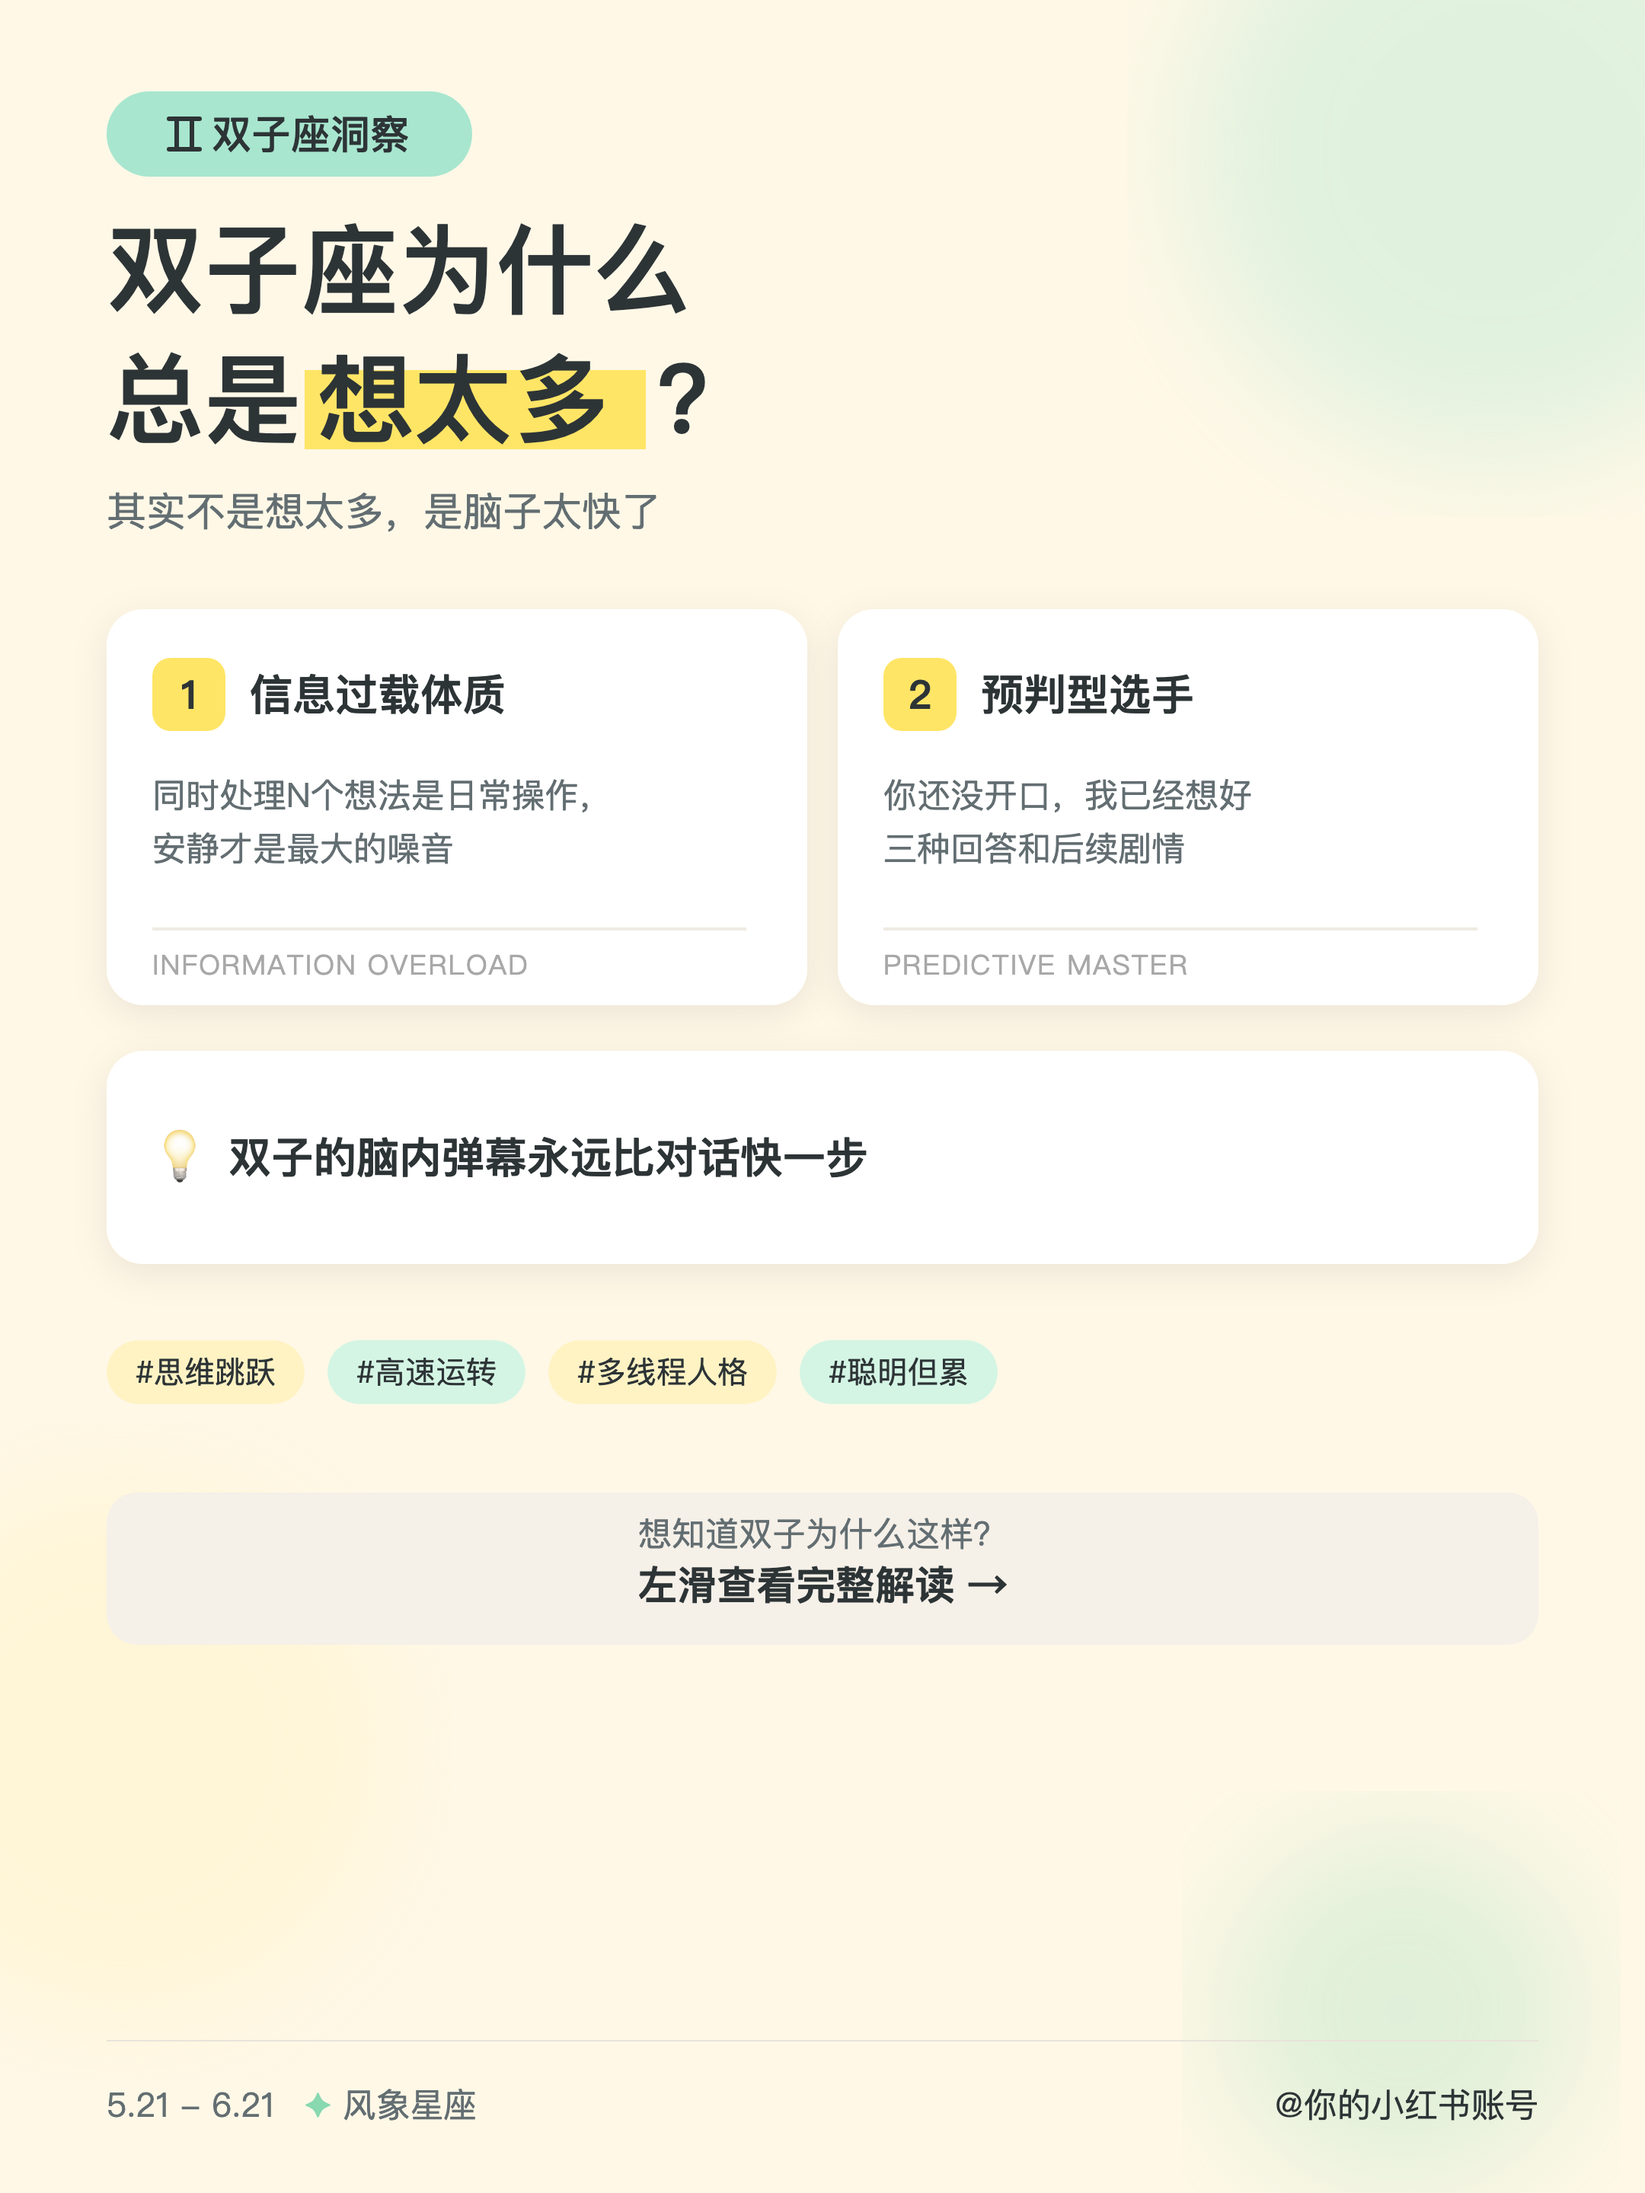
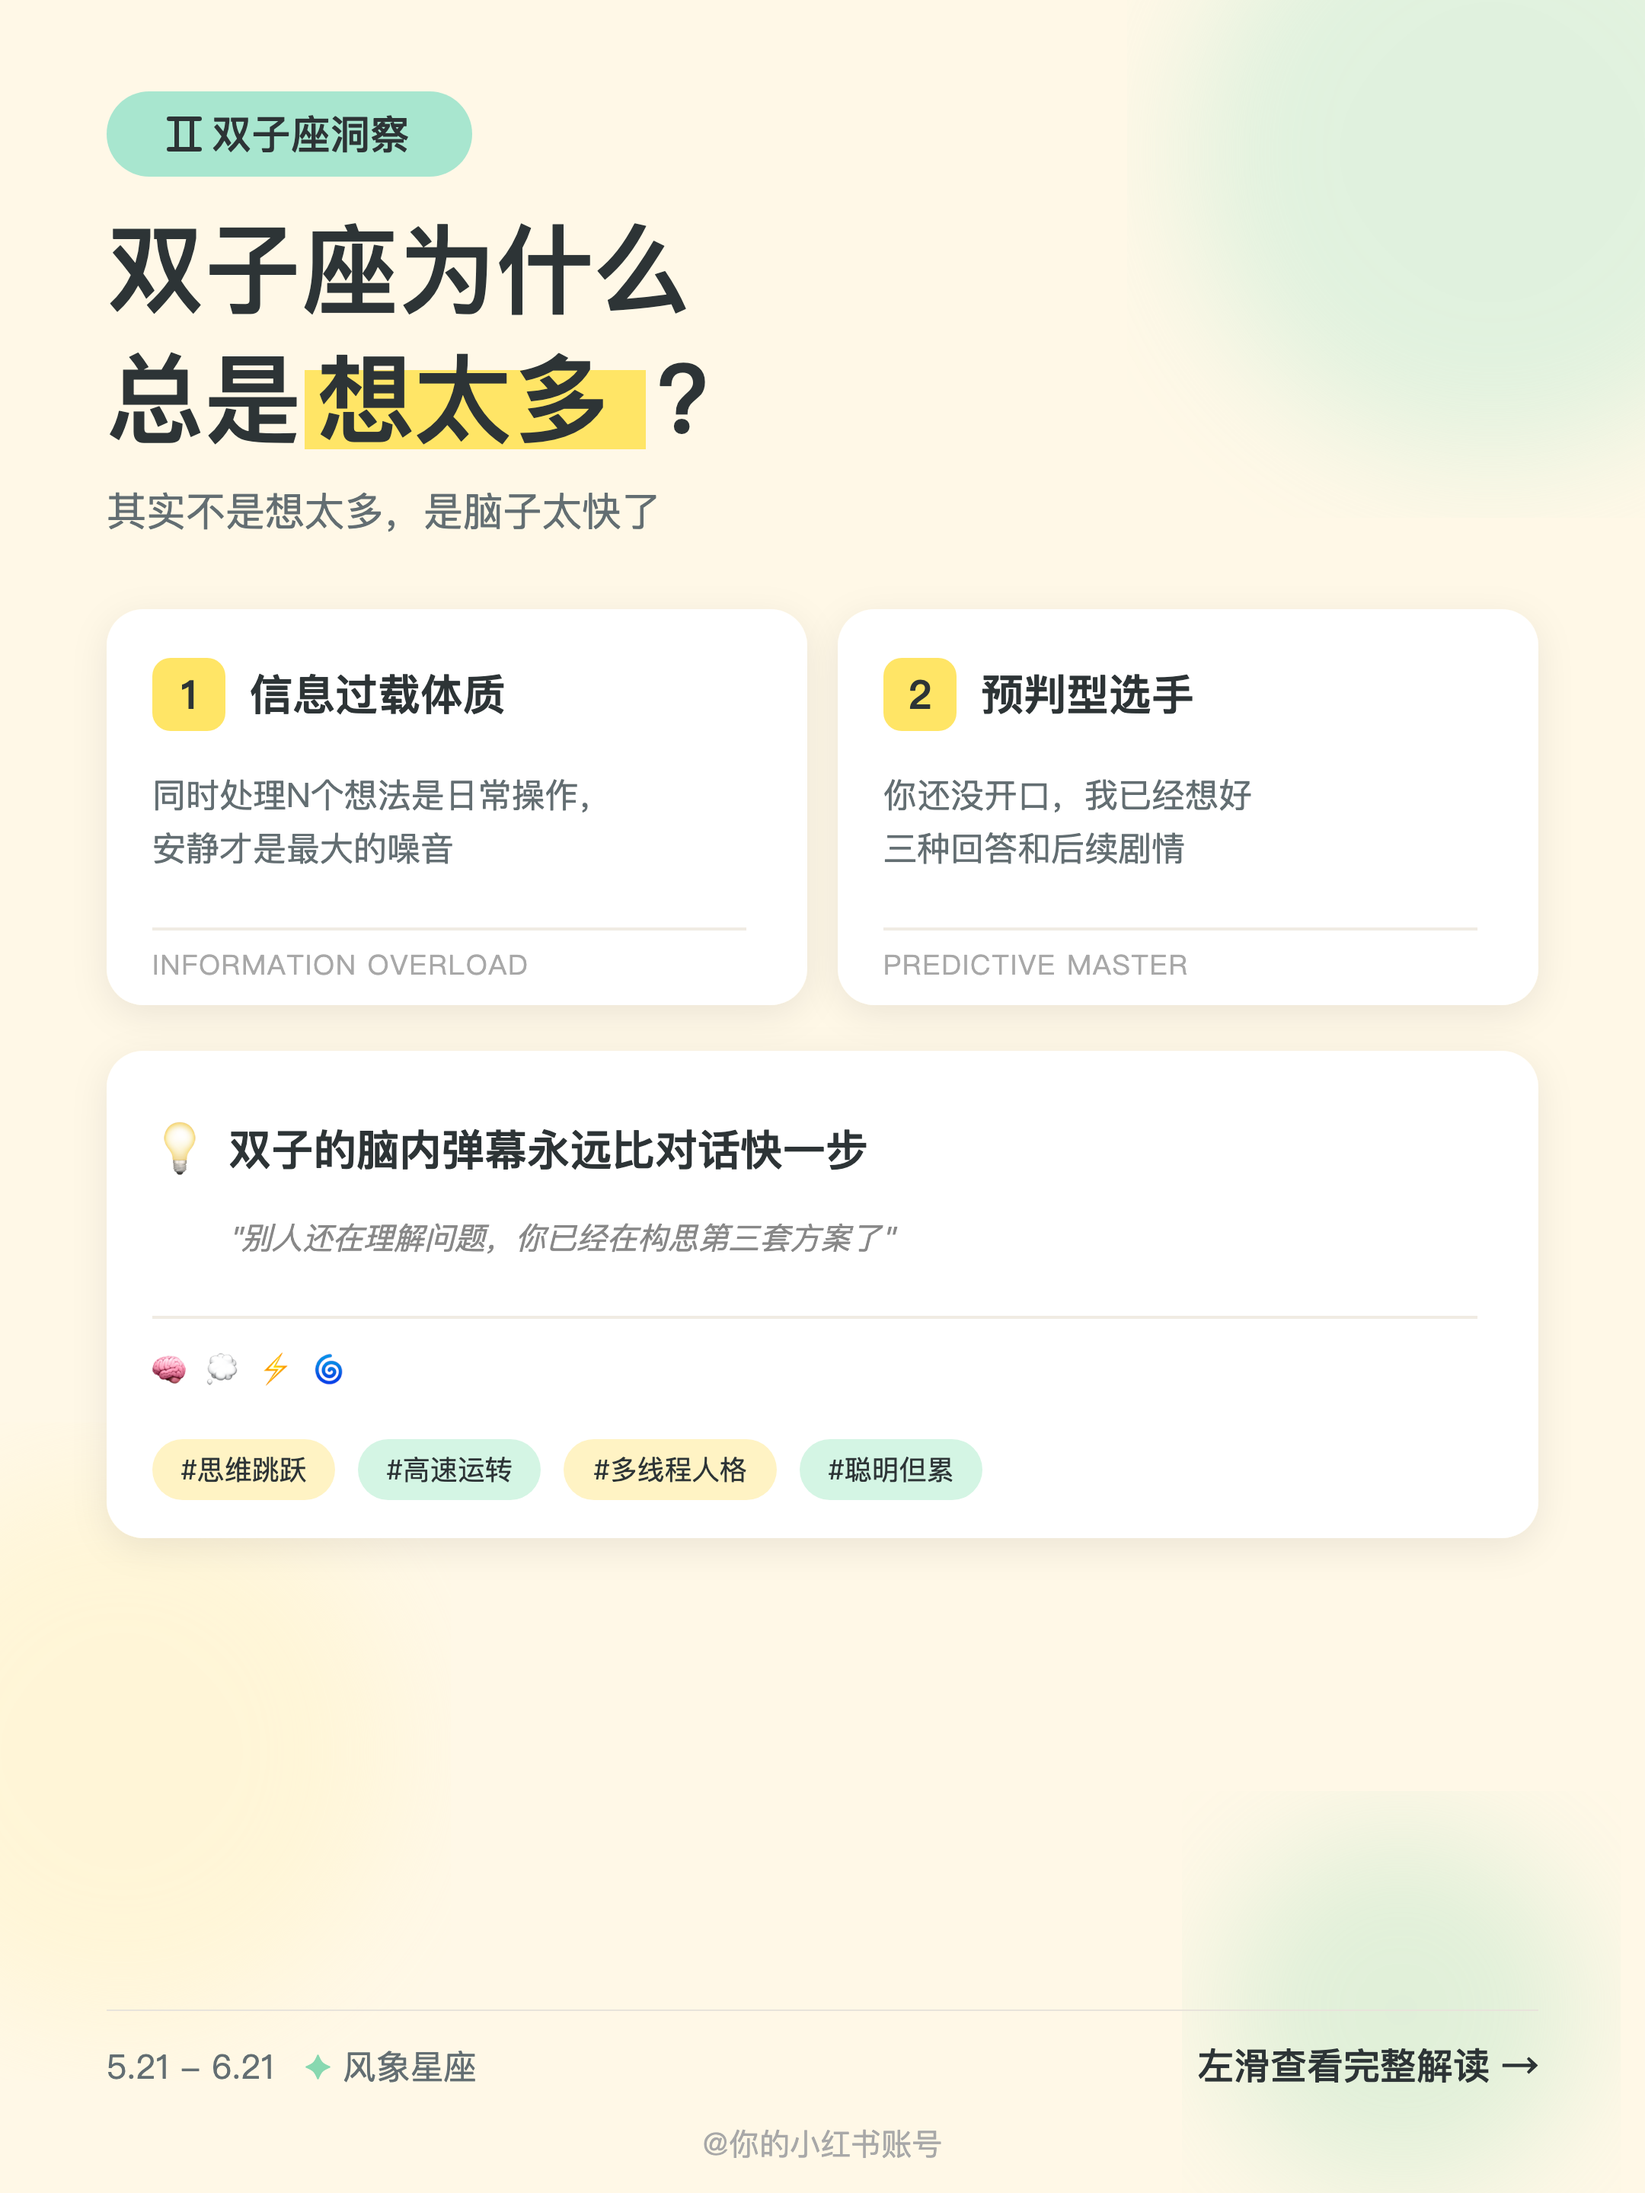
请依照你的高端审美结合我提出的问题（不限于）重新优化整个封面
🤖 Auto-backup by Claude Code

diff --git a/skills/zodiac-poster/assets/templates/fresh-insight/examples/01_cover.html b/skills/zodiac-poster/assets/templates/fresh-insight/examples/01_cover.html
@@ -36,9 +36,7 @@
   <!-- ==================== 头部徽章 ==================== -->
   <rect x="70" y="60" width="240" height="56" rx="28" fill="#A8E6CF"/>
   <g transform="translate(190, 88)">
-    <!-- 内容整体居中：图标20px + 间距8px + 文字130px = 158px -->
     <g transform="translate(-79, 0)">
-      <!-- 双子座图标 (20x20) -->
       <g transform="translate(0, -10)">
         <line x1="0" y1="0" x2="20" y2="0" stroke="#2D3436" stroke-width="3" stroke-linecap="round"/>
         <line x1="0" y1="20" x2="20" y2="20" stroke="#2D3436" stroke-width="3" stroke-linecap="round"/>
@@ -64,72 +62,75 @@
   <!-- ==================== 双卡片区 ==================== -->
   <!-- 卡片1 -->
   <rect x="70" y="400" width="460" height="260" rx="24" fill="#FFFFFF" filter="url(#cardShadow)"/>
-  <!-- 序号圆角方块 - 居中显示数字 -->
   <rect x="100" y="432" width="48" height="48" rx="12" fill="#FFE566"/>
   <text x="124" y="456" font-family="PingFang SC, Microsoft YaHei, sans-serif" font-size="26" font-weight="700" fill="#2D3436" text-anchor="middle" dominant-baseline="central">1</text>
-  <!-- 标题 -->
   <text x="164" y="456" font-family="PingFang SC, Microsoft YaHei, sans-serif" font-size="28" font-weight="700" fill="#2D3436" dominant-baseline="central">信息过载体质</text>
-  <!-- 描述文字 -->
   <text x="100" y="530" font-family="PingFang SC, Microsoft YaHei, sans-serif" font-size="22" fill="#636E72">同时处理N个想法是日常操作，</text>
   <text x="100" y="565" font-family="PingFang SC, Microsoft YaHei, sans-serif" font-size="22" fill="#636E72">安静才是最大的噪音</text>
-  <!-- 装饰线 -->
   <line x1="100" y1="610" x2="490" y2="610" stroke="#F0EBE3" stroke-width="2"/>
   <text x="100" y="640" font-family="PingFang SC, Microsoft YaHei, sans-serif" font-size="18" fill="#A8A8A8" letter-spacing="1">INFORMATION OVERLOAD</text>
 
   <!-- 卡片2 -->
   <rect x="550" y="400" width="460" height="260" rx="24" fill="#FFFFFF" filter="url(#cardShadow)"/>
-  <!-- 序号圆角方块 - 居中显示数字 -->
   <rect x="580" y="432" width="48" height="48" rx="12" fill="#FFE566"/>
   <text x="604" y="456" font-family="PingFang SC, Microsoft YaHei, sans-serif" font-size="26" font-weight="700" fill="#2D3436" text-anchor="middle" dominant-baseline="central">2</text>
-  <!-- 标题 -->
   <text x="644" y="456" font-family="PingFang SC, Microsoft YaHei, sans-serif" font-size="28" font-weight="700" fill="#2D3436" dominant-baseline="central">预判型选手</text>
-  <!-- 描述文字 -->
   <text x="580" y="530" font-family="PingFang SC, Microsoft YaHei, sans-serif" font-size="22" fill="#636E72">你还没开口，我已经想好</text>
   <text x="580" y="565" font-family="PingFang SC, Microsoft YaHei, sans-serif" font-size="22" fill="#636E72">三种回答和后续剧情</text>
-  <!-- 装饰线 -->
   <line x1="580" y1="610" x2="970" y2="610" stroke="#F0EBE3" stroke-width="2"/>
   <text x="580" y="640" font-family="PingFang SC, Microsoft YaHei, sans-serif" font-size="18" fill="#A8A8A8" letter-spacing="1">PREDICTIVE MASTER</text>
 
-  <!-- ==================== 全宽卡片 ==================== -->
-  <rect x="70" y="690" width="940" height="140" rx="24" fill="#FFFFFF" filter="url(#cardShadow)"/>
-  <!-- 灯泡图标和文字在同一行 -->
-  <g transform="translate(100, 760)">
+  <!-- ==================== 全宽卡片（包含标签） ==================== -->
+  <rect x="70" y="690" width="940" height="320" rx="24" fill="#FFFFFF" filter="url(#cardShadow)"/>
+
+  <!-- 灯泡 + 主文字 -->
+  <g transform="translate(100, 755)">
     <text x="0" y="0" font-family="Apple Color Emoji, Segoe UI Emoji" font-size="36" dominant-baseline="central">💡</text>
     <text x="50" y="0" font-family="PingFang SC, Microsoft YaHei, sans-serif" font-size="28" font-weight="600" fill="#2D3436" dominant-baseline="central">双子的脑内弹幕永远比对话快一步</text>
   </g>
 
-  <!-- ==================== 标签区（卡片外部） ==================== -->
-  <g transform="translate(70, 880)">
-    <!-- 标签1 -->
-    <rect x="0" y="0" width="130" height="42" rx="21" fill="#FFF3C4"/>
-    <text x="65" y="21" font-family="PingFang SC, Microsoft YaHei, sans-serif" font-size="20" fill="#2D3436" text-anchor="middle" dominant-baseline="central">#思维跳跃</text>
+  <!-- 补充说明文字 -->
+  <text x="150" y="820" font-family="PingFang SC, Microsoft YaHei, sans-serif" font-size="20" fill="#888888" font-style="italic">"别人还在理解问题，你已经在构思第三套方案了"</text>
 
-    <!-- 标签2 -->
-    <rect x="145" y="0" width="130" height="42" rx="21" fill="#D4F5E4"/>
-    <text x="210" y="21" font-family="PingFang SC, Microsoft YaHei, sans-serif" font-size="20" fill="#2D3436" text-anchor="middle" dominant-baseline="central">#高速运转</text>
+  <!-- 装饰分隔线 -->
+  <line x1="100" y1="865" x2="970" y2="865" stroke="#F0EBE3" stroke-width="2"/>
 
-    <!-- 标签3 -->
-    <rect x="290" y="0" width="150" height="42" rx="21" fill="#FFF3C4"/>
-    <text x="365" y="21" font-family="PingFang SC, Microsoft YaHei, sans-serif" font-size="20" fill="#2D3436" text-anchor="middle" dominant-baseline="central">#多线程人格</text>
-
-    <!-- 标签4 -->
-    <rect x="455" y="0" width="130" height="42" rx="21" fill="#D4F5E4"/>
-    <text x="520" y="21" font-family="PingFang SC, Microsoft YaHei, sans-serif" font-size="20" fill="#2D3436" text-anchor="middle" dominant-baseline="central">#聪明但累</text>
+  <!-- 思维图标装饰 -->
+  <g transform="translate(100, 900)">
+    <text x="0" y="0" font-family="Apple Color Emoji, Segoe UI Emoji" font-size="22" dominant-baseline="central">🧠</text>
+    <text x="35" y="0" font-family="Apple Color Emoji, Segoe UI Emoji" font-size="22" dominant-baseline="central">💭</text>
+    <text x="70" y="0" font-family="Apple Color Emoji, Segoe UI Emoji" font-size="22" dominant-baseline="central">⚡</text>
+    <text x="105" y="0" font-family="Apple Color Emoji, Segoe UI Emoji" font-size="22" dominant-baseline="central">🌀</text>
   </g>
 
-  <!-- ==================== 引导语区 ==================== -->
-  <g transform="translate(70, 980)">
-    <rect x="0" y="0" width="940" height="100" rx="20" fill="#F5F0E8"/>
-    <text x="470" y="35" font-family="PingFang SC, Microsoft YaHei, sans-serif" font-size="22" fill="#636E72" text-anchor="middle">想知道双子为什么这样？</text>
-    <text x="470" y="70" font-family="PingFang SC, Microsoft YaHei, sans-serif" font-size="26" font-weight="600" fill="#2D3436" text-anchor="middle">左滑查看完整解读 →</text>
+  <!-- #标签行（在卡片内部） -->
+  <g transform="translate(100, 945)">
+    <rect x="0" y="0" width="120" height="40" rx="20" fill="#FFF3C4"/>
+    <text x="60" y="20" font-family="PingFang SC, Microsoft YaHei, sans-serif" font-size="18" fill="#2D3436" text-anchor="middle" dominant-baseline="central">#思维跳跃</text>
+
+    <rect x="135" y="0" width="120" height="40" rx="20" fill="#D4F5E4"/>
+    <text x="195" y="20" font-family="PingFang SC, Microsoft YaHei, sans-serif" font-size="18" fill="#2D3436" text-anchor="middle" dominant-baseline="central">#高速运转</text>
+
+    <rect x="270" y="0" width="140" height="40" rx="20" fill="#FFF3C4"/>
+    <text x="340" y="20" font-family="PingFang SC, Microsoft YaHei, sans-serif" font-size="18" fill="#2D3436" text-anchor="middle" dominant-baseline="central">#多线程人格</text>
+
+    <rect x="425" y="0" width="120" height="40" rx="20" fill="#D4F5E4"/>
+    <text x="485" y="20" font-family="PingFang SC, Microsoft YaHei, sans-serif" font-size="18" fill="#2D3436" text-anchor="middle" dominant-baseline="central">#聪明但累</text>
   </g>
 
-  <!-- ==================== 底部信息 ==================== -->
-  <line x1="70" y1="1340" x2="1010" y2="1340" stroke="#E8E3DB" stroke-width="1"/>
-  <text x="70" y="1390" font-family="PingFang SC, Microsoft YaHei, sans-serif" font-size="22" fill="#636E72">5.21 - 6.21</text>
-  <text x="200" y="1390" font-family="PingFang SC, Microsoft YaHei, sans-serif" font-size="22" fill="#88D8B0">✦</text>
-  <text x="225" y="1390" font-family="PingFang SC, Microsoft YaHei, sans-serif" font-size="22" fill="#636E72">风象星座</text>
-  <text x="1010" y="1390" font-family="PingFang SC, Microsoft YaHei, sans-serif" font-size="22" fill="#2D3436" text-anchor="end">@你的小红书账号</text>
+  <!-- ==================== 底部信息区 ==================== -->
+  <line x1="70" y1="1320" x2="1010" y2="1320" stroke="#E8E3DB" stroke-width="1"/>
+
+  <!-- 日期和星座信息 -->
+  <text x="70" y="1365" font-family="PingFang SC, Microsoft YaHei, sans-serif" font-size="22" fill="#636E72">5.21 - 6.21</text>
+  <text x="200" y="1365" font-family="PingFang SC, Microsoft YaHei, sans-serif" font-size="22" fill="#88D8B0">✦</text>
+  <text x="225" y="1365" font-family="PingFang SC, Microsoft YaHei, sans-serif" font-size="22" fill="#636E72">风象星座</text>
+
+  <!-- 左滑引导（最底部右侧） -->
+  <text x="1010" y="1365" font-family="PingFang SC, Microsoft YaHei, sans-serif" font-size="24" font-weight="500" fill="#2D3436" text-anchor="end">左滑查看完整解读 →</text>
+
+  <!-- 账号信息 -->
+  <text x="540" y="1415" font-family="PingFang SC, Microsoft YaHei, sans-serif" font-size="20" fill="#A8A8A8" text-anchor="middle">@你的小红书账号</text>
 </svg>
 </body>
 </html>
